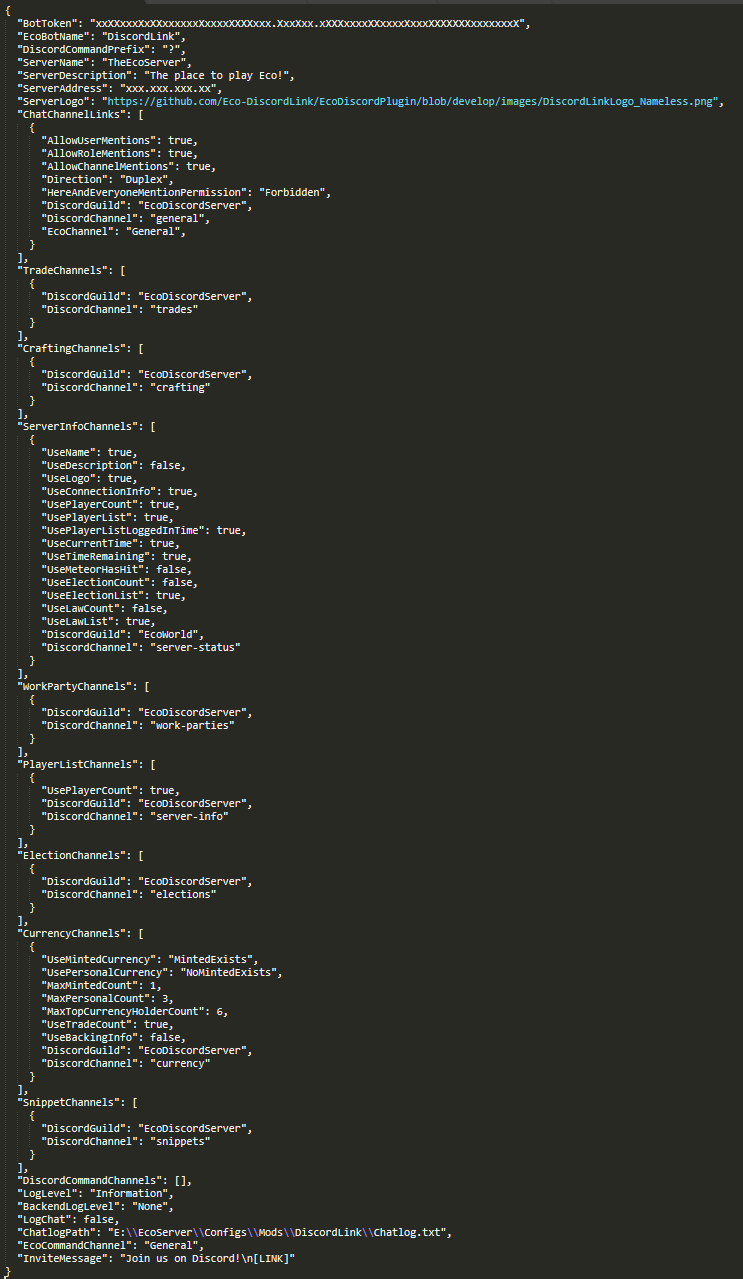
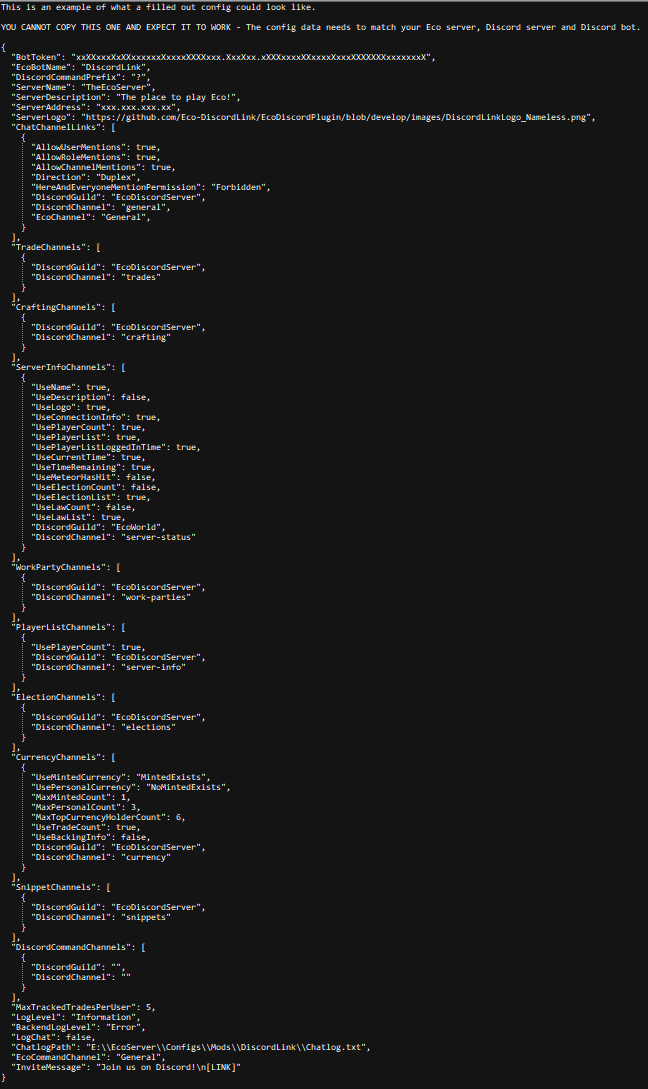
Added config property for how many tracked trades are allowed per user

Changed region(s): [[0.0, 0.0, 1.0, 1.0]]

diff --git a/DiscordLink/Config.cs b/DiscordLink/Config.cs
@@ -32,6 +32,7 @@ namespace Eco.Plugins.DiscordLink
             public const int    MaxMintedCurrencies = 1;
             public const int    MaxPersonalCurrencies = 3;
             public const int    MaxTopCurrencyHolderCount = 3;
+            public const int    MaxTrackedTradesPerUser = 5;
         }
 
         public static readonly DLConfig Instance = new DLConfig();
@@ -268,6 +269,12 @@ namespace Eco.Plugins.DiscordLink
                 correctionMade = true;
             }
 
+            // Max tracked trades per user
+            if(Data.MaxTrackedTradesPerUser < 0)
+            {
+                Data.MaxTrackedTradesPerUser = DLConfig.DefaultValues.MaxTrackedTradesPerUser;
+            }
+
             // Invite Message
             if (string.IsNullOrEmpty(Data.InviteMessage))
             {
@@ -439,6 +446,7 @@ namespace Eco.Plugins.DiscordLink
                 LogChat = this.LogChat,
                 ChatlogPath = this.ChatlogPath,
                 EcoCommandOutputChannel = this.EcoCommandOutputChannel,
+                MaxTrackedTradesPerUser = this.MaxTrackedTradesPerUser,
                 InviteMessage = this.InviteMessage,
                 ChatChannelLinks = new ObservableCollection<ChatChannelLink>(this.ChatChannelLinks.Select(t => t.Clone()).Cast<ChatChannelLink>()),
                 ServerInfoChannels = new ObservableCollection<ServerInfoChannel>(this.ServerInfoChannels.Select(t => t.Clone()).Cast<ServerInfoChannel>()),
@@ -503,6 +511,9 @@ namespace Eco.Plugins.DiscordLink
 
         [Description("Discord channels in which to allow commands. If no channels are specified, commands will be allowed in all channels. This setting can be changed while the server is running."), Category("Command Settings")]
         public ObservableCollection<ChannelLink> DiscordCommandChannels { get; set; } = new ObservableCollection<ChannelLink>();
+
+        [Description("Max amount of tracked trades allowed per user. This setting can be changed while the server is running, but does not apply retroactively."), Category("Command Settings")]
+        public int MaxTrackedTradesPerUser { get; set; } = DLConfig.DefaultValues.MaxTrackedTradesPerUser;
 
         [Description("Determines what message types will be printed to the server log. All message types below the selected one will be printed as well. This setting can be changed while the server is running."), Category("Miscellaneous")]
         public LogLevel LogLevel { get; set; } = LogLevel.Information;

diff --git a/DiscordLink/Commands/DiscordCommands.cs b/DiscordLink/Commands/DiscordCommands.cs
@@ -381,6 +381,13 @@ namespace Eco.Plugins.DiscordLink
                     return;
                 }
 
+                int trackedTradesCount = DLStorage.WorldData.GetTrackedTradesCountForUser(ctx.GetSenderId());
+                if (trackedTradesCount >= DLConfig.Data.MaxTrackedTradesPerUser)
+                {
+                    await RespondToCommand(ctx, $"You are already tracking {trackedTradesCount} trades and the limit is {DLConfig.Data.MaxTrackedTradesPerUser} tracked trades per user.\n\nUse the `{DLConfig.Data.DiscordCommandPrefix}dl-StopTrackTrades` command to remove a tracked trade to make space if you wish to add a new one.");
+                    return;
+                }
+
                 // Fetch trade data using the trades command once to see that the command parameters are valid
                 string result = SharedCommands.Trades(userOrItemName, out string matchedName, out bool isItem, out StoreOfferList groupedBuyOffers, out StoreOfferList groupedSellOffers);
                 if (!string.IsNullOrEmpty(result))

diff --git a/DiscordLink/Commands/EcoCommands.cs b/DiscordLink/Commands/EcoCommands.cs
@@ -347,6 +347,13 @@ namespace Eco.Plugins.DiscordLink
                 return;
             }
 
+            int trackedTradesCount = DLStorage.WorldData.GetTrackedTradesCountForUser(ulong.Parse(linkedUser.DiscordId));
+            if (trackedTradesCount >= DLConfig.Data.MaxTrackedTradesPerUser)
+            {
+                ChatManager.ServerMessageToPlayer(new LocString($"You are already tracking {trackedTradesCount} trades and the limit is {DLConfig.Data.MaxTrackedTradesPerUser} tracked trades per user.\nUse the `\\dl-StopTrackTrades` command to remove a tracked trade to make space if you wish to add a new one."), user);
+                return;
+            }
+
             // Fetch trade data using the trades command once to see that the command parameters are valid
             string result = SharedCommands.Trades(userOrItemName, out string matchedName, out bool isItem, out StoreOfferList groupedBuyOffers, out StoreOfferList groupedSellOffers);
             if (!string.IsNullOrEmpty(result))

diff --git a/Commands.md b/Commands.md
@@ -45,7 +45,7 @@ Typing only /DiscordLink or the alias /DL will invoke the help message and provi
 * <b>Trades [DL-Trades] [Trade] [dlt] (Item Name or Username)</b> - Displays available trades by person or by item.  
 [Example](https://github.com/Eco-DiscordLink/EcoDiscordPlugin/blob/develop/images/features/commands/ecotrades.png?raw=true)
 
-* <b>TrackTrades [DL-TrackTrades] (Item name or Username)</b> - Configures a Trade Tracker Display showing up to date information on the requested item in a Discord DM with the calling user. Requires the calling user having linked their Eco account to Discord using _/dl-link_.  
+* <b>TrackTrades [DL-TrackTrades] (Item name or Username)</b> - Configures a Trade Tracker Display showing up to date information on the requested item in a Discord DM with the calling user. Requires the calling user having linked their Eco account to Discord using _/dl-link_. Note that there may be a limit to how many tracked trades each user is allowed to have.  
 [Example](https://github.com/Eco-DiscordLink/EcoDiscordPlugin/blob/develop/images/features/commands/discordtrades.png?raw=true)
 
 * <b>StopTrackTrades [DL-StopTrackTrades] (Item Name or Username)</b> - Removes the Trade Tracker Display for the requested item for the calling user.

diff --git a/ConfigurationNoGUI.md b/ConfigurationNoGUI.md
@@ -74,6 +74,10 @@ Eco commands always use `/` as command prexis as this is hard coded into the gam
 **Eco Command Channel**  
 The Eco chat channel to use for commands that outputs public messages, excluding the initial # character.
 
+**Max Tracked Trades Per User**
+The maximum amount of tracked trades allowed for each user.
+Note that lowering this whill not remove any existing tracked trades.
+
 **Invite Message**  
 The message to use for the /DiscordInvite command. The invite link is fetched from the Network configuration (the _Discord Address_ field in _Network.eco_) and will replace the [LINK] token. The message needs to include at least one [LINK] token in order to function and the _Network_ configuration needs to have the _Discord Address_ field filled out.
 

diff --git a/ConfigurationGUI.md b/ConfigurationGUI.md
@@ -58,6 +58,10 @@ Eco commands always use `/` as command prexis as this is hard coded into the gam
 **Eco Command Channel**  
 The Eco chat channel to use for commands that outputs public messages, excluding the initial # character.
 
+**Max Tracked Trades Per User**
+The maximum amount of tracked trades allowed for each user.
+Note that lowering this whill not remove any existing tracked trades.
+
 **Invite Message**  
 The message to use for the /DiscordInvite command. The invite link is fetched from the Network configuration (the _Discord Address_ field) and will replace the [LINK] token. The message needs to include at least one [LINK] token in order to function and the _Network_ configuration needs to have the _Discord Address_ field filled out.
 
